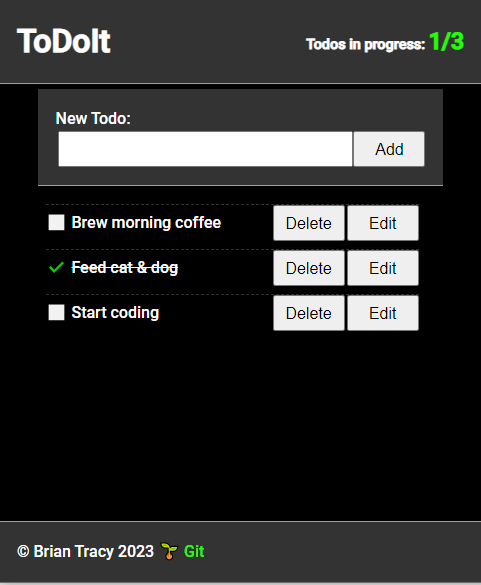
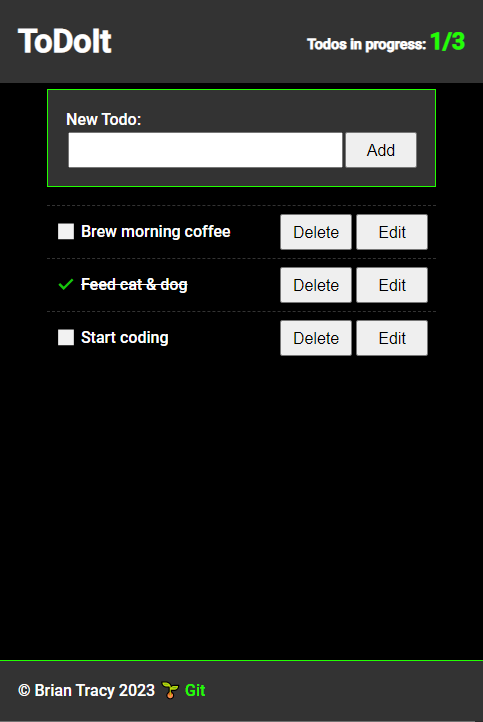
Updates

Changed region(s): [[0.0, 0.0308, 1.0, 0.5846], [0.0, 0.8923, 1.0, 1.0]]

diff --git a/static/css/main.261cf0a9.css b/static/css/main.261cf0a9.css
@@ -1,0 +1,2 @@
+*,:after,:before{box-sizing:border-box}blockquote,body,button,div,fieldset,form,h1,h2,h3,h4,h5,h6,html,img,input,legend,li,ol,p,span,table,td,textarea,th,ul{margin:0;padding:0}body,button,html,input,textarea{font-family:sans-serif;font-size:16px;line-height:1.5}ol,ul{list-style:none}a{color:inherit;text-decoration:none}body{background-color:#000;color:#fff;display:flex;font-family:Roboto,Helvetica Neue,sans-serif;justify-content:center;overflow-y:scroll;scrollbar-color:#999 #f5f5f5;scrollbar-width:thin}body .App{display:flex;flex-direction:column;margin-bottom:-36px}body .header{align-items:center;background-color:#333;color:#fff;display:flex;justify-content:space-between;min-height:36px;padding:18px;position:fixed;right:0;top:0;width:100%}body .header h2{font-size:90%}body .header h2 span{color:#22ff01;font-size:160%}body .main-content{margin-top:36px;width:767px}@media only screen and (max-width:767px){body .main-content{width:389px}}body .main-content button{height:36px;margin-left:4px;min-width:72px;padding:4.5px}body .main-content button .active{background-color:blue}body .main-content input{font-size:100%;height:36px;margin:0 0 0 2px;padding:8px;width:100%}body .main-content .newTodoContainer{align-items:flex-end;background-color:#333;border:1px solid #22ff01;display:flex;justify-content:center;margin-top:54px;min-height:54px;padding:18px}body .main-content .line-through{text-decoration:line-through}body .main-content ul{margin:18px 0 72px;padding:0}body .main-content ul li{align-items:center;border-top:1px dashed #333;display:flex;justify-content:space-between;list-style-type:none;padding:8px}body .main-content ul li .clickable{cursor:pointer;flex-grow:1;max-width:50%}body .footer{background-color:#333;border-top:1px solid #22ff01;bottom:0;color:#fff;left:0;padding:18px;position:fixed;width:100%}body .footer a{color:#22ff01}body code{font-family:source-code-pro,Menlo,Monaco,Consolas,Courier New,monospace}
+/*# sourceMappingURL=main.261cf0a9.css.map*/

diff --git a/index.html b/index.html
@@ -1,1 +1,1 @@
-<!doctype html><html lang="en"><head><meta charset="utf-8"/><link rel="icon" href="/todoit/favicon.ico"/><meta name="viewport" content="width=device-width,initial-scale=1"/><meta name="theme-color" content="#000000"/><meta name="description" content="Web site created using create-react-app"/><link rel="apple-touch-icon" href="/todoit/logo192.png"/><link rel="manifest" href="/todoit/manifest.json"/><title>React App</title><script defer="defer" src="/todoit/static/js/main.bac9b929.js"></script><link href="/todoit/static/css/main.8c0ebc0f.css" rel="stylesheet"></head><body><noscript>You need to enable JavaScript to run this app.</noscript><div id="root"></div></body></html>
+<!doctype html><html lang="en"><head><meta charset="utf-8"/><link rel="icon" href="/todoit/favicon.ico"/><meta name="viewport" content="width=device-width,initial-scale=1"/><meta name="theme-color" content="#000000"/><meta name="description" content="Web site created using create-react-app"/><link rel="apple-touch-icon" href="/todoit/logo192.png"/><link rel="manifest" href="/todoit/manifest.json"/><title>React App</title><script defer="defer" src="/todoit/static/js/main.bac9b929.js"></script><link href="/todoit/static/css/main.261cf0a9.css" rel="stylesheet"></head><body><noscript>You need to enable JavaScript to run this app.</noscript><div id="root"></div></body></html>
